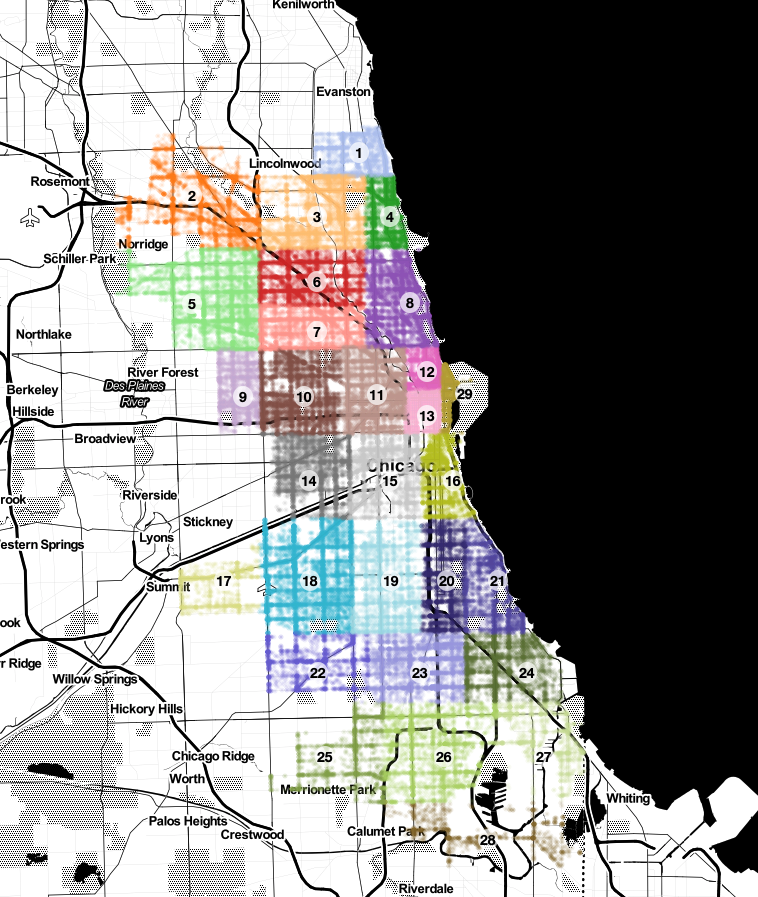
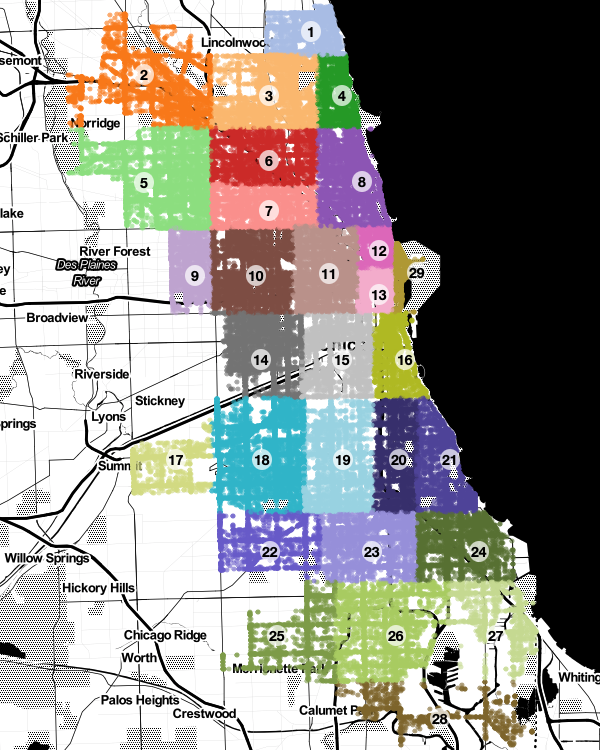
Added map of regions to index.html

diff --git a/web/index.html b/web/index.html
@@ -1,118 +1,222 @@
-<!doctype html>
+<!DOCTYPE html>
 <html lang="en">
-<head>
-    <meta charset="UTF-8">
-    <meta name="viewport"
-          content="width=device-width, user-scalable=no, initial-scale=1.0, maximum-scale=1.0, minimum-scale=1.0">
-    <meta http-equiv="X-UA-Compatible" content="ie=edge">
-    <link href="https://fonts.googleapis.com/css2?family=Playfair+Display:wght@900&display=swap" rel="stylesheet">
-    <link href="https://fonts.googleapis.com/css2?family=Roboto:wght@400;700;900&display=swap" rel="stylesheet">
-    <link rel="stylesheet" href="css/styles.css"/>
+  <head>
+    <meta charset="UTF-8" />
+    <meta
+      name="viewport"
+      content="width=device-width, user-scalable=no, initial-scale=1.0, maximum-scale=1.0, minimum-scale=1.0"
+    />
+    <meta http-equiv="X-UA-Compatible" content="ie=edge" />
+    <link
+      href="https://fonts.googleapis.com/css2?family=Playfair+Display:wght@900&display=swap"
+      rel="stylesheet"
+    />
+    <link
+      href="https://fonts.googleapis.com/css2?family=Roboto:wght@400;700;900&display=swap"
+      rel="stylesheet"
+    />
+    <link rel="stylesheet" href="css/styles.css" />
     <title>Chicago Traffic</title>
-</head>
-<body>
-<div style="width: 100%; height: 18px; background-color: black"></div>
-<div class="skyline">
-    <h1 class="skyline__title">Chicago Traffic</h1>
-</div>
-<p style="margin-top: 30px">The traffic of the City of Chicago is well documented in the form of massive—freely
-    available—data sets.
-    In the following, we take a deep dive into the data revolving around traffic accidents and present our findings.
-</p>
-
-<!-- Crashes Heat Map -->
-<section>
-    <h2>Heat map over all crashes in Chicago</h2>
-    <p>Ut metus dui, finibus nec tortor eu, sollicitudin vehicula arcu. Ut porta nunc elementum eros lacinia fermentum.
-        Mauris mattis elit feugiat, commodo metus hendrerit, fringilla lacus. Aenean nisi nunc, feugiat nec enim ac,
-        rhoncus malesuada dolor. Cras pulvinar ultricies ex quis tincidunt. Etiam dictum laoreet massa quis blandit.
-        Morbi non congue leo. Etiam quis eleifend lacus.</p>
-    <div class="iframe-wrapper">
-        <iframe class="map" height="600" width="600" src="./folium/heat_crashes.html"></iframe>
-        <a class="fullscreen-btn" href="./folium/heat_crashes.html" target="_blank"
-           title="View fullscreen"><img
-                src="assets/icons/fullscreen.svg"></a>
+  </head>
+  <body>
+    <div style="width: 100%; height: 18px; background-color: black;"></div>
+    <div class="skyline">
+      <h1 class="skyline__title">Chicago Traffic</h1>
     </div>
-    <div class="caption">
+    <p style="margin-top: 30px;">
+      The traffic of the City of Chicago is well documented in the form of
+      massive—freely available—data sets. In the following, we take a deep dive
+      into the data revolving around traffic accidents and present our findings.
+    </p>
+
+    <section>
+      <h2>Regions of Chicago</h2>
+      <p>
+        Ut metus dui, finibus nec tortor eu, sollicitudin vehicula arcu. Ut
+        porta nunc elementum eros lacinia fermentum. Mauris mattis elit feugiat,
+        commodo metus hendrerit, fringilla lacus. Aenean nisi nunc, feugiat nec
+        enim ac, rhoncus malesuada dolor. Cras pulvinar ultricies ex quis
+        tincidunt. Etiam dictum laoreet massa quis blandit. Morbi non congue
+        leo. Etiam quis eleifend lacus.
+      </p>
+      <div class="iframe-wrapper">
+        <iframe
+          class="map"
+          height="750"
+          width="600"
+          src="./folium/Regions_with_id.png"
+        ></iframe>
+        <a
+          class="fullscreen-btn"
+          href="./folium/Regions_with_id.png"
+          target="_blank"
+          title="View fullscreen"
+          ><img src="assets/icons/fullscreen.svg"
+        /></a>
+      </div>
+      <div class="caption">
         <p class="caption__title">Figure X</p>
-        <p class="caption__body">Aenean nisi nunc, feugiat nec enim ac, rhoncus malesuada dolor. Cras pulvinar
-            ultricies ex quis tincidunt.</p>
-    </div>
-</section>
+        <p class="caption__body">
+          Aenean nisi nunc, feugiat nec enim ac, rhoncus malesuada dolor. Cras
+          pulvinar ultricies ex quis tincidunt.
+        </p>
+      </div>
+    </section>
 
-<!-- Crashes Heat Map over Time -->
-<section>
-    <h2>Heat map over all crashes in Chicago</h2>
-    <p>Ut metus dui, finibus nec tortor eu, sollicitudin vehicula arcu. Ut porta nunc elementum eros lacinia fermentum.
-        Mauris mattis elit feugiat, commodo metus hendrerit, fringilla lacus. Aenean nisi nunc, feugiat nec enim ac,
-        rhoncus malesuada dolor. Cras pulvinar ultricies ex quis tincidunt. Etiam dictum laoreet massa quis blandit.
-        Morbi non congue leo. Etiam quis eleifend lacus.</p>
-    <!--    <link rel="stylesheet" href="../css/leaflet.timedimension.control.min.css"/>-->
-    <div class="iframe-wrapper">
-        <iframe class="map" height="600" width="600" src="./folium/heat_crashes_over_time.html"></iframe>
-        <a class="fullscreen-btn" href="./folium/heat_crashes_over_time.html" target="_blank"
-           title="View fullscreen"><img
-                src="assets/icons/fullscreen.svg"></a>
-    </div>
-    <div class="caption">
+    <!-- Crashes Heat Map -->
+    <section>
+      <h2>Heat map over all crashes in Chicago</h2>
+      <p>
+        Ut metus dui, finibus nec tortor eu, sollicitudin vehicula arcu. Ut
+        porta nunc elementum eros lacinia fermentum. Mauris mattis elit feugiat,
+        commodo metus hendrerit, fringilla lacus. Aenean nisi nunc, feugiat nec
+        enim ac, rhoncus malesuada dolor. Cras pulvinar ultricies ex quis
+        tincidunt. Etiam dictum laoreet massa quis blandit. Morbi non congue
+        leo. Etiam quis eleifend lacus.
+      </p>
+      <div class="iframe-wrapper">
+        <iframe
+          class="map"
+          height="600"
+          width="600"
+          src="./folium/heat_crashes.html"
+        ></iframe>
+        <a
+          class="fullscreen-btn"
+          href="./folium/heat_crashes.html"
+          target="_blank"
+          title="View fullscreen"
+          ><img src="assets/icons/fullscreen.svg"
+        /></a>
+      </div>
+      <div class="caption">
         <p class="caption__title">Figure X</p>
-        <p class="caption__body">Ut porta nunc elementum eros lacinia fermentum. Mauris mattis elit feugiat,
-            commodo metus hendrerit, fringilla lacus.</p>
-    </div>
-</section>
+        <p class="caption__body">
+          Aenean nisi nunc, feugiat nec enim ac, rhoncus malesuada dolor. Cras
+          pulvinar ultricies ex quis tincidunt.
+        </p>
+      </div>
+    </section>
 
-
-<!-- Number of Crashes vs Avg. Speed -->
-<section>
-    <h2>The Effect of Traffic Congestion</h2>
-    <p>Ut metus dui, finibus nec tortor eu, sollicitudin vehicula arcu. Ut porta nunc elementum eros lacinia fermentum.
-        Mauris mattis elit feugiat, commodo metus hendrerit, fringilla lacus. Aenean nisi nunc, feugiat nec enim ac,
-        rhoncus malesuada dolor. Cras pulvinar ultricies ex quis tincidunt. Etiam dictum laoreet massa quis blandit.
-        Morbi non congue leo. Etiam quis eleifend lacus.</p>
-    <div class="iframe-wrapper">
-        <iframe class="plot" height="500" width="652" src="./bokeh/crash_count_vs_avg_speed.html"></iframe>
-        <a class="fullscreen-btn" href="./bokeh/crash_count_vs_avg_speed.html" target="_blank"
-           title="View fullscreen"><img
-                src="assets/icons/fullscreen.svg"></a>
-    </div>
-    <div class="caption">
+    <!-- Crashes Heat Map over Time -->
+    <section>
+      <h2>Heat map over all crashes in Chicago</h2>
+      <p>
+        Ut metus dui, finibus nec tortor eu, sollicitudin vehicula arcu. Ut
+        porta nunc elementum eros lacinia fermentum. Mauris mattis elit feugiat,
+        commodo metus hendrerit, fringilla lacus. Aenean nisi nunc, feugiat nec
+        enim ac, rhoncus malesuada dolor. Cras pulvinar ultricies ex quis
+        tincidunt. Etiam dictum laoreet massa quis blandit. Morbi non congue
+        leo. Etiam quis eleifend lacus.
+      </p>
+      <!--    <link rel="stylesheet" href="../css/leaflet.timedimension.control.min.css"/>-->
+      <div class="iframe-wrapper">
+        <iframe
+          class="map"
+          height="600"
+          width="600"
+          src="./folium/heat_crashes_over_time.html"
+        ></iframe>
+        <a
+          class="fullscreen-btn"
+          href="./folium/heat_crashes_over_time.html"
+          target="_blank"
+          title="View fullscreen"
+          ><img src="assets/icons/fullscreen.svg"
+        /></a>
+      </div>
+      <div class="caption">
         <p class="caption__title">Figure X</p>
-        <p class="caption__body">Number of Crashes vs Avg. Speed for All 29 Regions.</p>
-    </div>
-</section>
+        <p class="caption__body">
+          Ut porta nunc elementum eros lacinia fermentum. Mauris mattis elit
+          feugiat, commodo metus hendrerit, fringilla lacus.
+        </p>
+      </div>
+    </section>
 
+    <!-- Number of Crashes vs Avg. Speed -->
+    <section>
+      <h2>The Effect of Traffic Congestion</h2>
+      <p>
+        Ut metus dui, finibus nec tortor eu, sollicitudin vehicula arcu. Ut
+        porta nunc elementum eros lacinia fermentum. Mauris mattis elit feugiat,
+        commodo metus hendrerit, fringilla lacus. Aenean nisi nunc, feugiat nec
+        enim ac, rhoncus malesuada dolor. Cras pulvinar ultricies ex quis
+        tincidunt. Etiam dictum laoreet massa quis blandit. Morbi non congue
+        leo. Etiam quis eleifend lacus.
+      </p>
+      <div class="iframe-wrapper">
+        <iframe
+          class="plot"
+          height="500"
+          width="652"
+          src="./bokeh/crash_count_vs_avg_speed.html"
+        ></iframe>
+        <a
+          class="fullscreen-btn"
+          href="./bokeh/crash_count_vs_avg_speed.html"
+          target="_blank"
+          title="View fullscreen"
+          ><img src="assets/icons/fullscreen.svg"
+        /></a>
+      </div>
+      <div class="caption">
+        <p class="caption__title">Figure X</p>
+        <p class="caption__body">
+          Number of Crashes vs Avg. Speed for All 29 Regions.
+        </p>
+      </div>
+    </section>
 
-<!-- Primary Cause of Crashes Throughout the Day -->
-<section>
-    <h2>Primary Cause of Crashes Throughout the Day</h2>
-    <p>Ut metus dui, finibus nec tortor eu, sollicitudin vehicula arcu. Ut porta nunc elementum eros lacinia fermentum.
-        Mauris mattis elit feugiat, commodo metus hendrerit, fringilla lacus. Aenean nisi nunc, feugiat nec enim ac,
-        rhoncus malesuada dolor. Cras pulvinar ultricies ex quis tincidunt.</p>
-    <div class="iframe-wrapper">
-        <iframe class="plot plot--wide" height="1050" src="./bokeh/primary_cause.html"></iframe>
-        <a class="fullscreen-btn" href="./bokeh/primary_cause.html" target="_blank"
-           title="View fullscreen"><img
-                src="assets/icons/fullscreen.svg"></a>
-    </div>
-    <div class="caption">
+    <!-- Primary Cause of Crashes Throughout the Day -->
+    <section>
+      <h2>Primary Cause of Crashes Throughout the Day</h2>
+      <p>
+        Ut metus dui, finibus nec tortor eu, sollicitudin vehicula arcu. Ut
+        porta nunc elementum eros lacinia fermentum. Mauris mattis elit feugiat,
+        commodo metus hendrerit, fringilla lacus. Aenean nisi nunc, feugiat nec
+        enim ac, rhoncus malesuada dolor. Cras pulvinar ultricies ex quis
+        tincidunt.
+      </p>
+      <div class="iframe-wrapper">
+        <iframe
+          class="plot plot--wide"
+          height="1050"
+          src="./bokeh/primary_cause.html"
+        ></iframe>
+        <a
+          class="fullscreen-btn"
+          href="./bokeh/primary_cause.html"
+          target="_blank"
+          title="View fullscreen"
+          ><img src="assets/icons/fullscreen.svg"
+        /></a>
+      </div>
+      <div class="caption">
         <p class="caption__title">Figure X</p>
         <p class="caption__body">Primary Cause of Crashes Throughout the Day</p>
+      </div>
+    </section>
+
+    <div
+      class="skyline"
+      style="
+        background-position: left;
+        transform: scale(-1);
+        margin-top: 100px;
+      "
+    ></div>
+    <div class="footer">
+      <span style="padding-bottom: 12px;"
+        >©2020 Karlsson, Illemann & Liebst</span
+      >
     </div>
-</section>
 
-
-<div class="skyline" style="background-position: left; transform: scale(-1); margin-top: 100px;"></div>
-<div class="footer">
-    <span style="padding-bottom: 12px">©2020 Karlsson, Illemann & Liebst</span>
-</div>
-
-
-<script>
-    /* Enumerate all figures */
-    document.body.querySelectorAll('.caption__title').forEach((el, i) => {
-        el.textContent = `Figure ${i + 1}`
-    })
-</script>
-
-</body>
+    <script>
+      /* Enumerate all figures */
+      document.body.querySelectorAll(".caption__title").forEach((el, i) => {
+        el.textContent = `Figure ${i + 1}`;
+      });
+    </script>
+  </body>
 </html>

diff --git a/map_regions.py b/map_regions.py
@@ -34,7 +34,7 @@ for i in region_idx:
 # colors = np.array(Turbo256)[idx]
 colors = np.append(Category20[20], Category20b[10])
 lon = -87.6298
-lat = 41.8781
+lat = 41.8281
 CHI_map = folium.Map([lat, lon], tiles="Stamen Toner", zoom_start=10.5)
 
 for i, row in locations.iterrows():
@@ -42,13 +42,13 @@ for i, row in locations.iterrows():
     if region == -1:
         continue
     # if i > 5000:
-        # break
+    #     break
 
     loc = (row['LATITUDE'], row['LONGITUDE'])
     folium.CircleMarker((loc[0], loc[1]),
-                        radius=.05,
+                        radius=.15,
                         fill=True,
-                        opacity=.1,
+                        opacity=.6,
                         color=colors[int(row.REGION_ID)]).add_to(CHI_map)
 
 for region in centers:
